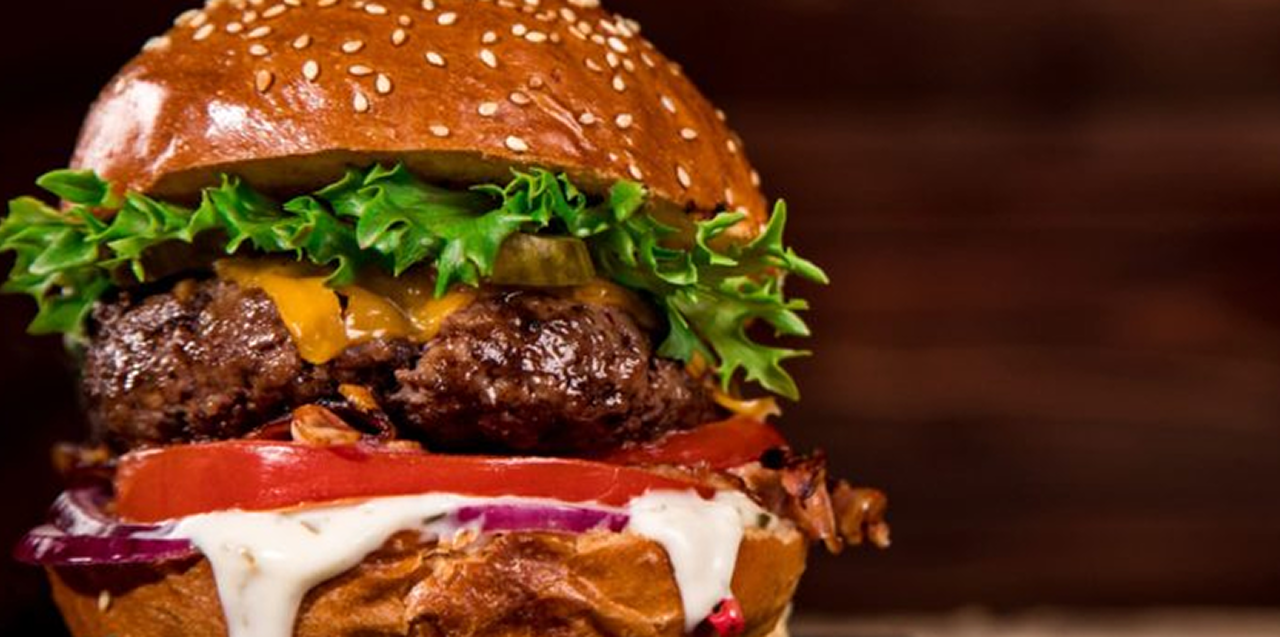
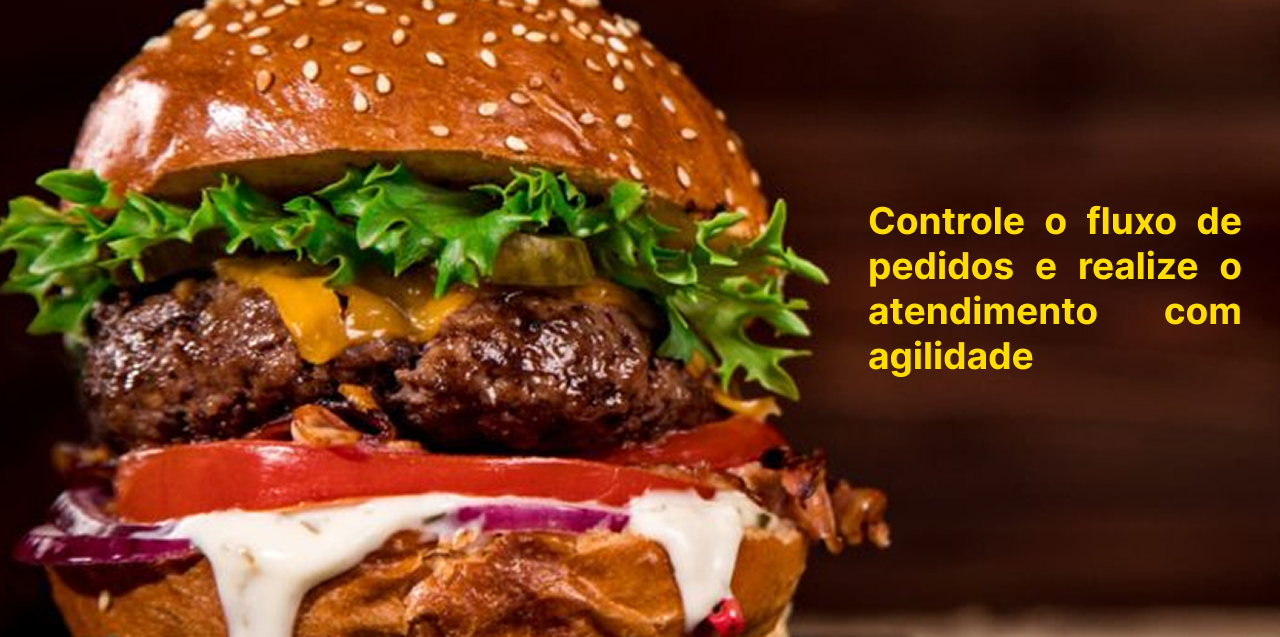
feat: Inicio do css

Changed region(s): [[0.6562, 0.3281, 0.9688, 0.5071], [0.6562, 0.5369, 0.8125, 0.5965], [0.9062, 0.4772, 0.9688, 0.5071]]

diff --git a/templates/assets/css/empresa.css b/templates/assets/css/empresa.css
@@ -1,8 +1,270 @@
 @import 'global.css';
 
 
+header {
+    width: 100%;
+    height: 11.2rem;
+    display: flex;
+    align-items: center;
+    justify-content: center;
+    box-shadow: 0 2px 8px rgba(0, 0, 0, 0.3);
+    position: fixed;
+    top: 0;
+    left: 0;
+    z-index: 100;
+    background-color: var(--Preto);
+}
+
+.cabecalho {
+    display: flex;
+    gap: 8.2rem;
+    justify-content: center;
+    align-items: center;
+
+}
+
+
+main {
+    margin-top: 11.2rem;
+    z-index: 1;
+    margin-bottom: 7rem;
+}
+
+
+
+
+section {
+    z-index: 1;
+    margin-bottom: 5rem;
+}
+
+h2 {
+    font-size: 5.6rem;
+    font-weight: bold;
+    margin-bottom: 6rem;
+    text-align: center;
+    color: var(--VermelhoCereja);
+}
+
+.textoft{
+    display: flex;
+    justify-content: space-between;
+
+
+
+
+}
+
+.textbtn{
+    display: flex;
+    flex-direction: column;
+    align-items: center;
+    justify-content: center;
+    gap: 2rem;
+    margin-bottom: 4rem;
+}
+
+.textomenu{
+    font-size: 3.4rem;
+    text-align: justify;
+    margin-top: 8rem;
+    margin-left: 10rem;
+    margin-right: 13rem;
+    margin-bottom: 4rem;
+}
+
+
+.foto {
+    display: flex;
+    justify-content: right;
+    margin-top: 2.5rem;
+    margin-right : 6rem;
+
+}
+
+.foto img {
+    width: 85rem;
+    height: 80rem;
+}
+
+.btncardapio{
+
+    width: 38rem;
+    height: 4.5rem;
+    justify-content: center;
+    background-color: var(--VermelhoCereja);
+    border-radius: 0.5rem;
+    margin-right: 2rem;
+    font-weight: bold;
+    font-size: 2.6rem;
+    border: none;
+    color: var(--Branco);
+    cursor: pointer;
+    
+}
+
+
+.btncardapio:hover {
+    background-color: var(--VermelhoCereja);
+    box-shadow: 0 4px 8px rgba(0, 0, 0, 0.2);
+}
+
+.decoracao1 {
+    display: flex;
+    justify-content: start;
+    align-items: right;
+    
+}
+
+
+.decoracao1 img{
+    width: 15rem;
+    height: 15rem;
+}
+
+.decoracao2 {
+    display: flex;
+    justify-content:end;
+    
+}
+
+.decoracao2 img{
+    width: 15rem;
+    height: 15rem;
+}
+
+
+
+.feedback {
+    display: flex;
+    flex-direction: column;
+    justify-content: center;
+    align-items: center;
+    margin-bottom: 0rem;
+}
+
+.textostitulo{
+    justify-content: left;
+    text-align: left;
+    align-items: left;
+    margin-right: 78rem;
+}
+.frase {
+    font-size: 2.5rem;
+    font-weight: normal;
+    margin-top: 3.5rem;
+    margin-bottom: 6rem;
+}
+
+.feed {
+    font-size: 4rem;
+    font-family: 'Inter';
+    color: var(--VermelhoCereja); ;
+    font-weight: bold;
+    text-align: left;
+    margin-top: 3rem;
+    margin-bottom: 3rem;
+
+}
+
+.word {
+    color: var(--VermelhoCereja);
+}
+
+.feedbackcontainer {
+    display: flex;
+    flex-direction: column;
+}
+
+.lineone {
+    display: flex;
+    gap: 3rem;
+    margin-bottom: 4rem;
+}
+
+.linetwo {
+    display: flex;
+    gap: 3rem;
+}
+
+.caixa {
+    display: flex;
+    flex-direction: column;
+    width: 46.8rem;
+    height: 27.5rem;
+    padding-top: 2.7rem;
+    padding-left: 2.5rem;
+    padding-right: 2.5rem;
+    border-radius: 1rem;
+    box-shadow: 0 2px 8px rgba(0, 0, 0, 0.3);
+    background-color: var(--Branco);
+}
+
+.dados {
+    display: flex;
+    align-items: center;
+    gap: 2.2rem;
+    margin-bottom: 2.9rem;
+}
+
+.dados img {
+    width: 6rem;
+    height: 5rem;
+}
+
+.dados p {
+    font-size: 2rem;
+    color: var(--VermelhoCereja);
+    font-weight: bold;
+}
+
+.textofeedback {
+    width: 40.9rem;
+    height: 14.4rem;
+    font-size: 1.8rem;
+    font-weight: bold;
+    text-align: justify;
+}
+
+hr{
+    margin: 4rem;
+}
+
+
+footer {
+    width: 100%;
+    height: 6.6rem;
+    background-color: var(--VermelhoCereja);
+    color: var(--Branco);
+}
+footer h4 {
+    display: flex;
+    justify-content: center;
+    font-weight: normal;
+    font-size: 1.5rem;
+}
+
+
+
+
+
+
+
+
+
+
+
+
+
+
+
+
+
+
+
+
 .menu {
-    width: 8rem !important;
+    width: 8rem ;
     padding-left: 4rem;
     cursor: pointer;
 }

diff --git a/View/empresa.html b/View/empresa.html
@@ -4,7 +4,9 @@
 <head>
     <meta charset="UTF-8">
     <meta name="viewport" content="width=device-width, initial-scale=1.0">
-    <title>Página Inicial</title>
+    <title>Página Principal Empresa</title>
+    <link href="https://cdn.jsdelivr.net/npm/bootstrap@5.3.8/dist/css/bootstrap.min.css" rel="stylesheet"
+        integrity="sha384-sRIl4kxILFvY47J16cr9ZwB07vP4J8+LH7qKQnuqkuIAvNWLzeN8tE5YBujZqJLB" crossorigin="anonymous">
     <link rel="stylesheet" href="../templates/assets/css/empresa.css">
 </head>
 
@@ -37,20 +39,21 @@
             </div>
             <div class="sombra"></div>
                 <div class="cabecalho">
+        
+            <figure>
+                <img src="../templates/assets/img/logo.png" alt="">
+            </figure>
+
             <figure class="perfil">
                 <img src="../templates/assets/img/perfil.png" alt="">
             </figure>
 
-            <figure>
-                <img src="../templates/assets/img/logo.png" alt="">
-            </figure>
               </div>
     </header>
 
 
      <main>
         <div id="carouselExample" class="carousel slide">
-             <h3 class = "inicio">Controle o fluxo de pedidos e realize o atendimento com agilidade</h3>
             <div class="carousel-inner">
                 <div class="carousel-item active">
                     <img src="../templates/assets/img/hamburguer.png" class="d-block w-100" alt="...">
@@ -59,38 +62,50 @@
         </div>
     </main>
 
-    <hr>
-    <section class="cardapio">
-        <h2 class="card">Menu</h2>
-        <h3 class="textomenu">Atualize e visualize as informações dos seus produtos.</h3>
-           <button class="btncardapio">Meu Cardápio</button>
-        <figure>
-            <img src="../templates/assets/img/coxinha1.png" alt="">
-        </figure>
-
-        <div class="containerdecoracao">
-                <div class="decoracao1">
+      <div class="decoracao1">
                     <figure>
                         <img src="../templates/assets/img/decoracao_baixo.png" alt=" Decoração vermelha">
                     </figure>
                 </div>
     
+    
+    <section class="cardapio">
+        <h2 class="cardapiomenu">Menu</h2>
+
+        <div class="textoft">
+        <div class="textbtn">
+        <h3 class="textomenu">Atualize e visualize as informações dos seus produtos.</h3>
+         <button class="btncardapio">Meu Cardápio</button>
+         </div>
+
+           <div class="foto">
+               <figure>
+                    <img src="../templates/assets/img/coxinha1.png" alt="">
+               </figure>
+
+             </div>
+           </div>
+
+              
             <div class="decoracao2">
                 <figure>
                     <img src="../templates/assets/img/decoracao_cima.png" alt=" Decoração vermelha 2">
                 </figure>
             </div>
-        </div>
+            <hr>
     </section>
-    <hr>
 
 
 
-     <hr>
+
+    
+    
     <section class="feedback">
+        
+        <div class=" textostitulo">
         <h2 class="feed">Feedbacks</h2>
-        <p>Visualize os <span class="word">feedbacks</span> enviados!</p>
-
+        <h3 class="frase"> Visualize os <span class="word">feedbacks</span> enviados!</h3>
+       </div>
         <div class="feedbackcontainer">
             <div class="lineone">
                 <div class="caixa">
@@ -158,11 +173,12 @@
                 </div>
             </div>
     </section>
-    <hr>
+   
 
 
     <footer>
-        <h5>Copyright © 2025 Meumanoburguer- Todos os Direitos Reservados</h5>
+         <hr>
+        <h4>Copyright © 2025 Meumanoburguer- Todos os Direitos Reservados</h4>
     </footer>
     <script src="../templates/assets/js/empresa.js"></script>
 </body>
